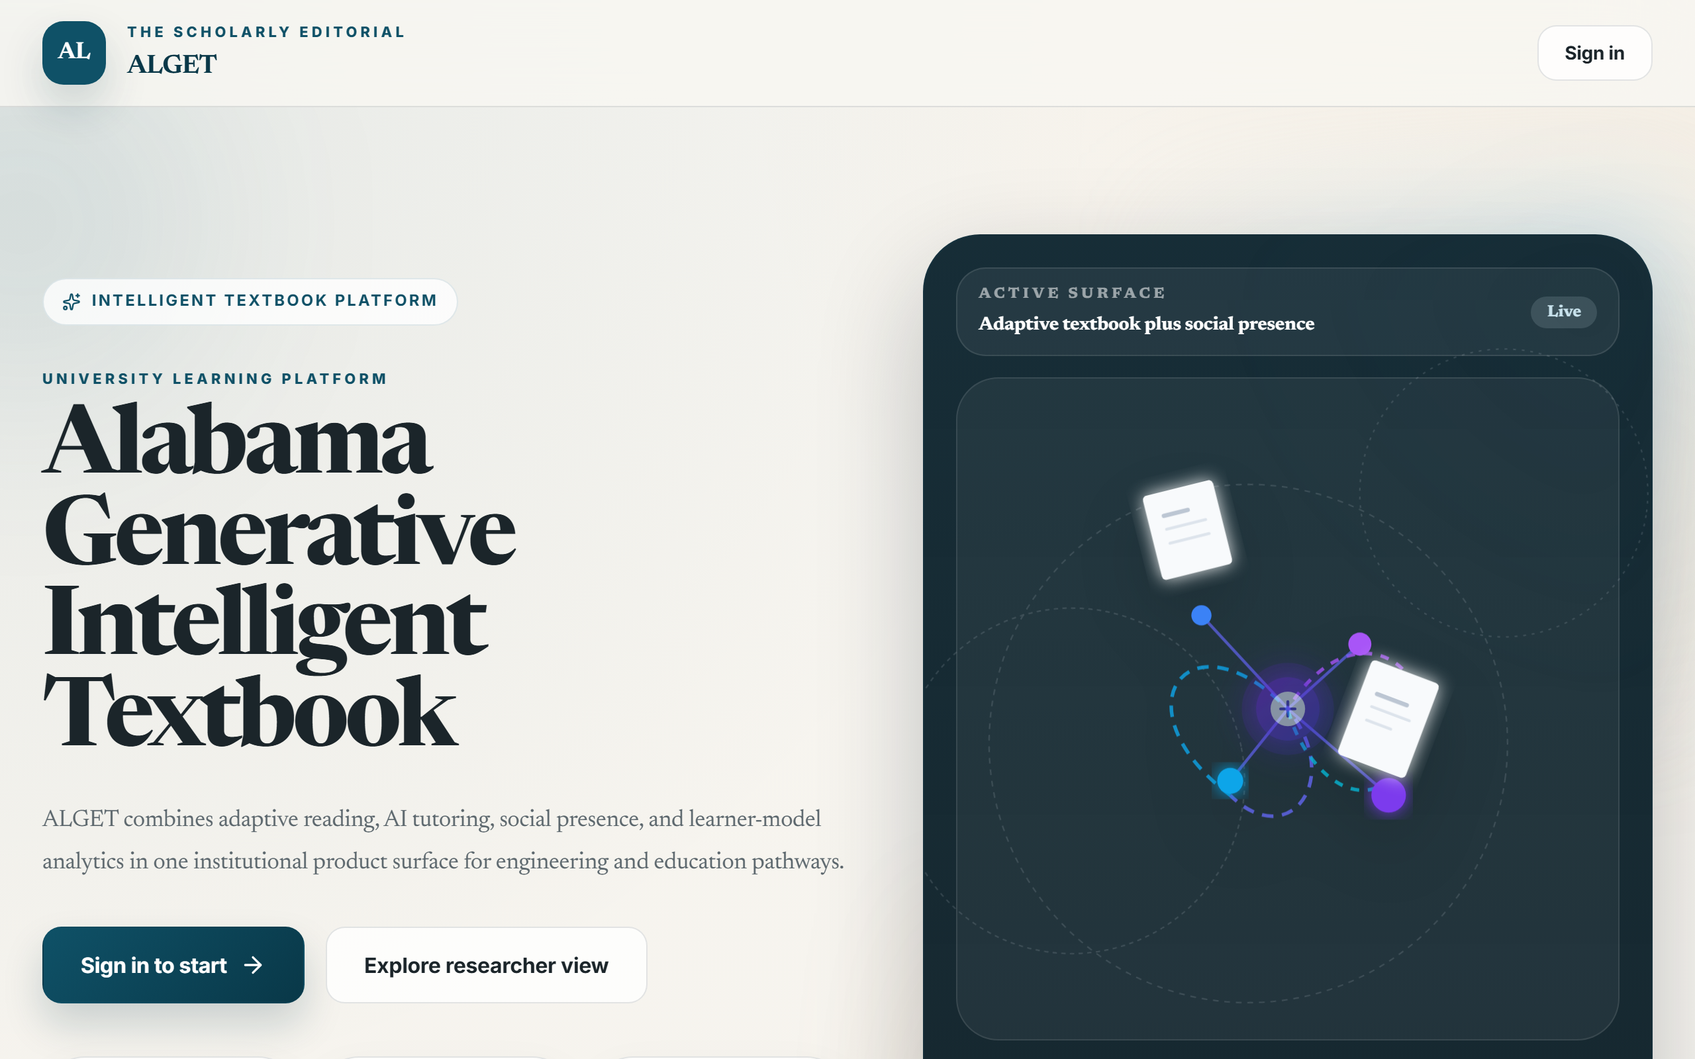
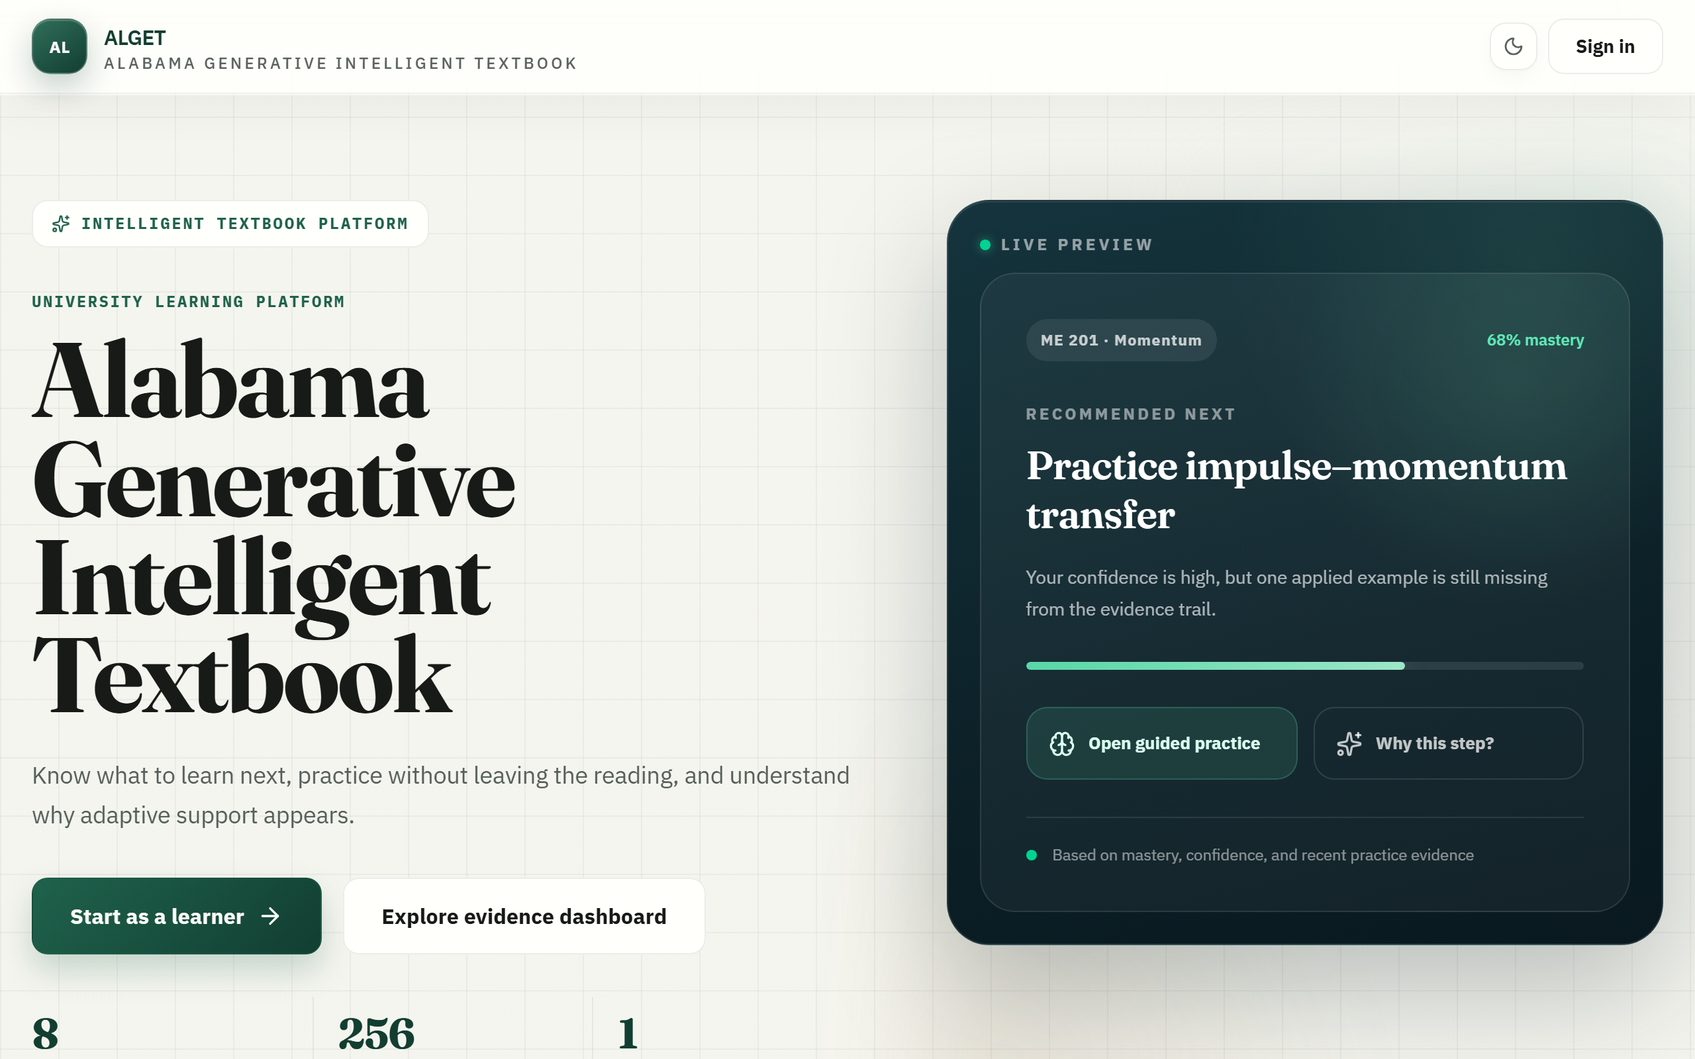
Refresh README architecture and screenshots

diff --git a/capture_screenshots.py b/capture_screenshots.py
@@ -56,6 +56,54 @@ async def shoot(page, name, **opts):
     print(f"  -> {path.name}")
 
 
+async def seed_agentic_demo(page):
+    """Seed approval-gated agentic examples for reproducible README captures."""
+    await page.evaluate(
+        """
+        () => {
+          const authKey = Object.keys(localStorage).find((key) => key.startsWith('sb-') && key.endsWith('-auth-token'))
+          let auth = {}
+          try { auth = JSON.parse(localStorage.getItem(authKey) || '{}') } catch { auth = {} }
+          const userId = auth?.user?.id || auth?.currentSession?.user?.id || auth?.session?.user?.id || 'demo-learner'
+          const now = new Date().toISOString()
+          const workflow = {
+            id: 'workflow-readme-plan', owner_id: userId, course_id: 'bio-inspired', workflow_type: 'learner_plan',
+            status: 'awaiting_approval', risk_level: 'low', goal: 'Master directional adhesion for Friday', created_at: now, updated_at: now,
+          }
+          const plan = {
+            id: 'plan-readme', workflow_id: workflow.id, user_id: userId, status: 'awaiting_approval', created_at: now, updated_at: now,
+            agent_workflows: workflow,
+            plan: {
+              sessions: [
+                { id: 's1', concept_id: 'directional_adhesion', mode: 'worked-example', scheduled_for: '2026-08-01', minutes: 30, why_now: 'Current mastery evidence is 38%, below the 80% learner goal.' },
+                { id: 's2', concept_id: 'preload_sensitivity', mode: 'retrieval-practice', scheduled_for: '2026-08-03', minutes: 25 },
+                { id: 's3', concept_id: 'dry_adhesion_constraints', mode: 'teach-back', scheduled_for: '2026-08-05', minutes: 30 },
+              ],
+              learner_control: { requires_approval: true, can_edit: true, can_pause: true, can_cancel: true, memory_scope: 'learner-owned' },
+            },
+          }
+          const interventionWorkflow = {
+            id: 'workflow-readme-intervention', owner_id: userId, course_id: 'statics', workflow_type: 'instructor_intervention',
+            status: 'awaiting_approval', risk_level: 'medium', goal: 'Re-teach force vectors', created_at: now, updated_at: now,
+          }
+          const intervention = {
+            id: 'intervention-readme', workflow_id: interventionWorkflow.id, course_id: 'statics', concept_id: 'force_vectors',
+            title: 'Re-teach force vectors', status: 'awaiting_approval', risk_level: 'medium', created_at: now, updated_at: now,
+            agent_workflows: interventionWorkflow,
+            proposal: {
+              summary: 'Prepare a short compare-and-correct activity; review the next evidence snapshot before further action.',
+              evidence: { learner_count: 8, average_mastery: 0.38, urgency: 'urgent', causal_claim: false },
+              delivery: { executed: false, requires_instructor_approval: true },
+            },
+          }
+          localStorage.setItem('alget_agentic_lms_v1', JSON.stringify({
+            goals: [], workflows: [workflow, interventionWorkflow], studyPlans: [plan], interventions: [intervention], events: [],
+          }))
+        }
+        """
+    )
+
+
 async def main():
     async with async_playwright() as p:
         browser = await p.chromium.launch(headless=True)
@@ -77,6 +125,7 @@ async def main():
         await page.evaluate(
             "localStorage.setItem('alget_onboarding_completed_v1','true')"
         )
+        await seed_agentic_demo(page)
 
         # 2. /learn (course chooser)
         print("[2] Course chooser /learn")
@@ -104,16 +153,20 @@ async def main():
 
         # 4. Book reader with IntelRail explicitly opened (Get Help button)
         print("[4] Reader with IntelRail open")
+        rail_opened = False
         try:
             help_btn = page.get_by_role("button", name="Get Help")
             await help_btn.click()
             await page.wait_for_timeout(800)
+            rail_opened = True
         except Exception:
-            print("  (rail may already be open)")
-        await shoot(page, "04_intel_rail_open")
+            print("  (rail unavailable at this viewport; preserving existing capture)")
+        if rail_opened:
+            await shoot(page, "04_intel_rail_open")
 
         # 5. Floating chat — find launcher (the bottom-right floating bubble) and open
         print("[5] Floating ChatWidget")
+        chat_opened = False
         # Close the rail first if open, for a cleaner shot.
         try:
             close_help = page.get_by_role("button", name="Close Help")
@@ -129,9 +182,11 @@ async def main():
             ).first
             await chat_btn.click(timeout=4000)
             await page.wait_for_timeout(1000)
+            chat_opened = True
         except Exception as e:
-            print(f"  (chat launcher not found: {e})")
-        await shoot(page, "05_chat_widget")
+            print(f"  (chat launcher unavailable; preserving existing capture: {e})")
+        if chat_opened:
+            await shoot(page, "05_chat_widget")
 
         # 6. Mastery / brain network — try /dashboard
         print("[6] Student dashboard /dashboard")

diff --git a/README.md b/README.md
@@ -5,19 +5,33 @@
 <p align="center">
   <img src="assets/hero.png" alt="ALGET — Alabama Generative Intelligent Textbook system architecture" width="100%">
 </p>
-<p align="center"><em>System architecture at a glance — the core textbook pathways and course supplements feed a multi-agent knowledge graph above. The crimson trace is one learner's active path.</em></p>
+<p align="center"><em>A generative textbook where source-grounded content, learner evidence, and accountable human decisions remain connected.</em></p>
+
+<p align="center">
+  <a href="https://github.com/Educatian/alget/actions/workflows/ci.yml"><img src="https://github.com/Educatian/alget/actions/workflows/ci.yml/badge.svg?branch=significant-upgrade" alt="CI status"></a>
+  <a href="https://alget.pages.dev"><img src="https://img.shields.io/badge/live-Cloudflare%20Pages-F38020?logo=cloudflare&logoColor=white" alt="Live on Cloudflare Pages"></a>
+  <img src="https://img.shields.io/badge/tests-241%20frontend%20%7C%20110%20backend-176B55" alt="Test counts">
+  <img src="https://img.shields.io/badge/runtime-human--governed-0F4C5C" alt="Human-governed agentic runtime">
+</p>
+
+<p align="center">
+  <a href="https://alget.pages.dev"><strong>Live app</strong></a> ·
+  <a href="#3-a-tour-of-the-surfaces"><strong>Product tour</strong></a> ·
+  <a href="#4-architecture"><strong>Architecture</strong></a> ·
+  <a href="docs/AGENTIC_LMS_RUNTIME.md"><strong>Agentic LMS contract</strong></a>
+</p>
 
 ALGET pairs canonical engineering and instructional-design content with a learning environment that responds to each learner — pace, confusions, strong concepts, weak ones — while staying grounded in source material through a debate loop of specialist agents and a peer-review validator. It is the reference implementation for the system paper currently being prepared (`paper_draft.md`).
 
-```
-┌─────────────────┐         ┌──────────────────────┐         ┌──────────────────┐
-│  Vercel Frontend│  HTTPS  │   Render Backend     │  HTTPS  │  Supabase (PG13) │
-│  React 19 · Vite│ ──────▶ │  FastAPI · Gunicorn  │ ──────▶ │  RLS · Realtime  │
-│  Tailwind v4    │         │  15 LLM agents       │         │  6 SQL schemas   │
-└─────────────────┘         └──────────────────────┘         └──────────────────┘
-        ▲                            ▲
-        │ @supabase/supabase-js      │ google-genai (Gemini 2.0 Flash)
-        └────────────────────────────┘
+```mermaid
+flowchart LR
+    U["Learner · Instructor · Admin"] --> P["Cloudflare Pages<br/>React 19 · static course snapshots"]
+    P --> W["ALGET Worker<br/>AI · grading · agentic planning"]
+    P --> S["Supabase<br/>Auth · Postgres · RLS · Realtime"]
+    W --> O["OpenRouter<br/>Gemini 2.5 Flash"]
+    W --> A["Adaptive-policy Worker<br/>evidence → bounded next action"]
+    W --> S
+    F["FastAPI parity runtime<br/>local development · research · contract tests"] -.-> W
 ```
 
 ---
@@ -44,7 +58,7 @@ ALGET pairs canonical engineering and instructional-design content with a learni
 
 ## 1. What ALGET is
 
-ALGET is **not a chatbot wrapped around a textbook**. It is a generative intelligent textbook (GIT) — meaning the content itself is composed at the moment of learning, constrained by a RAG-grounded source corpus, validated by a peer-review agent, and shaped by an evolving model of what each learner has mastered. Three commitments drive the design:
+ALGET is **not a chatbot wrapped around a textbook**. It combines a versioned canonical course corpus with source-grounded explanations, practice, scenarios, and plans generated at the point of need. Every adaptive or agentic proposal is shaped by inspectable learning evidence and bounded by explicit learner, instructor, or administrator authority. Three commitments drive the design:
 
 - **Learner variability is the design condition** (UDL). Multiple paths through the same idea are first-class.
 - **Active retrieval, not passive reading.** Embedded checks, generated practice, and spaced retention are the load-bearing surfaces.
@@ -82,49 +96,35 @@ frontend/content/<course>/<chapter>/<section>/
 
 ## 3. A tour of the surfaces
 
-Real screenshots captured from the running app via Playwright (1280×800 @ 2× DPR, see `capture_screenshots.py` + `capture_highlight.py`).
+Real screenshots captured from the current app via Playwright (1280×800 @ 2× DPR). Agentic examples are deterministic fixtures generated by `capture_screenshots.py`; they contain no learner records.
 
 <table>
 <tr>
 <td width="33%" align="center">
-  <a href="screenshots/02_course_chooser.png"><img src="screenshots/02_course_chooser.png" alt="Course chooser at /learn"></a>
-  <br><sub><b>Course chooser</b> — <code>/learn</code><br>five tracks behind access codes</sub>
+  <a href="screenshots/03_book_reader.png"><img src="screenshots/03_book_reader.png" alt="ALGET reader with course navigation, live presence, and an embedded decision activity"></a>
+  <br><sub><b>Reading workspace</b> — <code>/book/&lt;course&gt;/&lt;ch&gt;/&lt;sec&gt;</code><br>source-grounded narrative · inline decisions · live presence</sub>
 </td>
 <td width="33%" align="center">
-  <a href="screenshots/03_book_reader.png"><img src="screenshots/03_book_reader.png" alt="Reader at /book/bio-inspired/01/03"></a>
-  <br><sub><b>Reader</b> — <code>/book/&lt;course&gt;/&lt;ch&gt;/&lt;sec&gt;</code><br>narrative + inline checks + objectives</sub>
+  <a href="screenshots/06_student_dashboard.png"><img src="screenshots/06_student_dashboard.png" alt="Learner dashboard showing an evidence-based weekly plan awaiting learner approval"></a>
+  <br><sub><b>Learner-owned planner</b> — <code>/dashboard</code><br>mastery evidence → editable plan → explicit approval</sub>
 </td>
 <td width="33%" align="center">
-  <a href="screenshots/04_intel_rail_open.png"><img src="screenshots/04_intel_rail_open.png" alt="Reader with BigAL Support Rail open"></a>
-  <br><sub><b>Intel Rail</b><br>Explain · Reframe · Practice · Ask</sub>
+  <a href="screenshots/07_instructor_dashboard.png"><img src="screenshots/07_instructor_dashboard.png" alt="Instructor intervention queue showing evidence, proposal, and human approval controls"></a>
+  <br><sub><b>Instructor intervention queue</b> — <code>/instructor</code><br>evidence → bounded proposal → human decision</sub>
 </td>
 </tr>
 <tr>
 <td width="33%" align="center">
-  <a href="screenshots/05_chat_widget.png"><img src="screenshots/05_chat_widget.png" alt="BigAL floating tutor chat"></a>
-  <br><sub><b>BigAL chat</b><br>floating tutor; Socratic by design</sub>
+  <a href="screenshots/02_course_chooser.png"><img src="screenshots/02_course_chooser.png" alt="Course chooser at /learn"></a>
+  <br><sub><b>Course pathways</b> — <code>/learn</code><br>eight engineering and education pathways</sub>
 </td>
 <td width="33%" align="center">
   <a href="screenshots/09_highlight_popover.png"><img src="screenshots/09_highlight_popover.png" alt="Highlight popover with Highlight, Add Note, Ask AI"></a>
-  <br><sub><b>Selection popover</b><br>Highlight · Add Note · Ask AI</sub>
-</td>
-<td width="33%" align="center">
-  <a href="screenshots/06_student_dashboard.png"><img src="screenshots/06_student_dashboard.png" alt="Student dashboard"></a>
-  <br><sub><b>Student dashboard</b> — <code>/dashboard</code><br>weakest concepts · misconceptions · live map</sub>
-</td>
-</tr>
-<tr>
-<td width="33%" align="center">
-  <a href="screenshots/07_instructor_dashboard.png"><img src="screenshots/07_instructor_dashboard.png" alt="Instructor cohort heatmap"></a>
-  <br><sub><b>Instructor dashboard</b> — <code>/instructor</code><br>cohort heatmap · at-risk · hot-spots</sub>
+  <br><sub><b>Social annotation</b><br>Highlight · Add Note · Ask AI · evidence trace</sub>
 </td>
 <td width="33%" align="center">
   <a href="screenshots/08_analytics.png"><img src="screenshots/08_analytics.png" alt="Research console"></a>
-  <br><sub><b>Research console</b> — <code>/analytics</code><br>RCT-grade telemetry · 8 metrics</sub>
-</td>
-<td width="33%" align="center">
-  <a href="screenshots/01_landing.png"><img src="screenshots/01_landing.png" alt="Landing page"></a>
-  <br><sub><b>Landing</b> — <code>/</code><br>access entry; demo mode available</sub>
+  <br><sub><b>Research console</b> — <code>/analytics</code><br>RCT-grade telemetry · decision provenance · retention</sub>
 </td>
 </tr>
 </table>
@@ -135,7 +135,52 @@ Real screenshots captured from the running app via Playwright (1280×800 @ 2× D
 
 ## 4. Architecture
 
-### 4.1 API surface (FastAPI)
+### 4.1 Production topology
+
+```mermaid
+flowchart TB
+    subgraph Client["Cloudflare Pages · browser"]
+      UI["React learning workspace"]
+      C["256 static MDX-derived content snapshots"]
+      L["Local-first demo fallback"]
+    end
+
+    subgraph Edge["Cloudflare edge"]
+      W["alget-llm Worker"]
+      AP["adaptive-recommendation Worker"]
+      KV["Adaptation policy KV"]
+    end
+
+    subgraph Data["Supabase"]
+      Auth["Auth"]
+      DB["Postgres + RLS"]
+      RT["Realtime presence"]
+      RPC["Role-checked workflow RPCs"]
+    end
+
+    UI --> C
+    UI --> W
+    UI --> Auth
+    UI --> DB
+    UI --> RT
+    W --> AP
+    W --> KV
+    W --> OR["OpenRouter · Gemini 2.5 Flash"]
+    W --> RPC
+    RPC --> DB
+    L -. "offline/demo parity" .-> UI
+    PY["FastAPI + pytest"] -. "shared contracts for local development and research validation" .-> W
+```
+
+| Layer | Production responsibility | Failure boundary |
+|---|---|---|
+| **Cloudflare Pages** | SPA, fonts, diagrams, reference images, immutable course JSON | Core reading remains available without an AI response. |
+| **ALGET Worker** | Tutor calls, deterministic grading, agentic plan proposals, admin/PDF APIs | Returns bounded fallbacks; it does not own learner authorization state. |
+| **Adaptive Worker + KV** | Low-latency support selection and versioned course policy | Emergency pause suppresses interventions without blocking reading. |
+| **Supabase** | Identity, RLS-governed records, Realtime, workflow events and reviewed RPCs | Tables are read-only to clients where approval integrity matters. |
+| **FastAPI parity runtime** | Local development, research experiments, Python contract tests | Not required for the Cloudflare production reading path. |
+
+### 4.2 Dynamic API surface (Worker + FastAPI parity)
 
 
 
@@ -158,7 +203,7 @@ Real screenshots captured from the running app via Playwright (1280×800 @ 2× D
 | `/api/agentic/interventions/propose` | POST | Draft a bounded instructor intervention; never sends or grades |
 | `/api/chat`, `/api/log-events` | POST | BigAL chat + telemetry beacon |
 
-### 4.2 Frontend routes (React Router 7)
+### 4.3 Frontend routes (React Router 7)
 
 | Route | Component | Gate |
 |---|---|---|
@@ -167,12 +212,13 @@ Real screenshots captured from the running app via Playwright (1280×800 @ 2× D
 | `/diagnostic/:course` | DiagnosticAssessment | user |
 | `/book/:course` | BookLayout (TOC) | user |
 | `/book/:course/:chapter/:section` | BookLayout (reader + IntelRail + ChatWidget) | user |
-| `/dashboard` | StudentDashboard | user |
-| `/instructor` | InstructorDashboard (cohort heatmap) | `alget_instructor_access` |
+| `/dashboard` | StudentDashboard + learner-owned study planner | user |
+| `/instructor` | InstructorDashboard + intervention approval queue | `alget_instructor_access` |
+| `/admin` | AdminControlPlane (ingestion, agents, policy, audit) | admin / course admin |
 | `/lab` | GenerativeLab (CurriculumAgent module gen) | researcher |
 | `/analytics` | AnalyticsDashboard (research console) | researcher |
 
-### 4.3 Data model — `backend/supabase_*.sql`
+### 4.4 Data and approval model
 
 Six SQL schemas, all RLS-gated:
 
@@ -186,6 +232,22 @@ Six SQL schemas, all RLS-gated:
 The timestamped migration `supabase/migrations/20260730100000_agentic_lms_runtime.sql` adds durable workflows, workflow events, learner goals/plans, and instructor intervention review queues. Proposals are separated from effects: learner plans and instructor interventions remain `awaiting_approval` until the accountable person acts. Messaging, publishing, enrollment changes, and final-grade execution are not exposed as autonomous actions. See `docs/AGENTIC_LMS_RUNTIME.md`.
 
 The four-way join `experiment_assignments × interaction_events × intervention_traces/recommendation_decisions × evaluation_runs/evaluation_responses` is what makes RCT, off-policy evaluation, item diagnostics, and forgetting-rate estimation tractable directly from production data.
+
+### 4.5 Agentic workflow lifecycle
+
+```mermaid
+stateDiagram-v2
+    [*] --> Draft
+    Draft --> AwaitingApproval: evidence-linked proposal
+    AwaitingApproval --> Active: accountable person approves
+    AwaitingApproval --> Cancelled: learner cancels / instructor rejects
+    Active --> Paused: learner pauses
+    Paused --> Active: learner resumes
+    Active --> Completed: bounded plan finishes
+    Active --> Cancelled: accountable person stops it
+```
+
+Every transition writes an `agent_workflow_events` record. Approval changes workflow state only: autonomous messaging, publishing, enrollment changes, and final-grade execution remain unavailable by policy.
 
 ---
 
@@ -472,6 +534,7 @@ alget/
 | `paper_draft.md` | researchers | system paper in progress |
 | `backend/SYSTEM_DESIGN_HISTORY.md` | maintainers | 5-stage evolution narrative |
 | `backend/agents/MULTI_AGENT_GENERATIVE_DESIGN.md` | maintainers | per-agent contract + debate-loop spec |
+| `docs/AGENTIC_LMS_RUNTIME.md` | maintainers / reviewers | workflow states, permission policy, human approval boundaries, deployment checks |
 | `backend/engineering_text_fidelity_rubric.md` | content authors | 6-dim scoring rubric (concept clarity, quantitative rigor, eng-translation, constraint awareness, learner support, voice) |
 | `backend/content_audit_report.md` + `content_priority_plan.md` | content authors | gap audit (42 sections, severity 0) + Tier 1–4 plan |
 | `REMOTION_ANIMATION_MAP.md` + `NOTEBOOKLM_REMOTION_INTEGRATION.md` | maintainers | per-section animation priority + audio/video pipeline |
@@ -481,21 +544,21 @@ alget/
 
 ## 12. Deployment
 
-### 12.1 Backend — Render
+### 12.1 Frontend and static content — Cloudflare Pages
 
-`render.yaml` → `gunicorn server:app -w 1 -k uvicorn.workers.UvicornWorker --timeout 120`. Single worker is intentional: free tier memory ceiling + in-memory RAG index consistency. Required env vars: `GEMINI_API_KEY`, optional access codes (see `DEPLOYMENT_ENV.md`).
+The Vite production build publishes the React SPA, security headers, SPA fallback, course snapshots, reference images, and fonts to `https://alget.pages.dev`. Reading does not wait for a model or a Python server.
 
-### 12.2 Frontend — Vercel
+### 12.2 Dynamic compute — Cloudflare Workers
 
-`vercel.json` provides SPA fallback + (legacy) `/api/*` rewrite. Production build calls Render directly via `apiConfig.js` → `https://alget.onrender.com/api` to bypass Vercel's 15-s timeout (commit `fd82b97`).
+`cloudflare/llm-proxy` serves tutor, grading, research-validation, admin/PDF, and governed agentic-planning endpoints at `https://alget-llm.jewoong-moon.workers.dev`. The adaptive recommendation policy runs in a second Worker through a service binding; policy versions and emergency controls use KV.
 
-### 12.3 Cold-start mitigation
+### 12.3 Identity and durable state — Supabase
 
-`App.jsx:36-37` pings `/book/inst-design/toc` on mount to wake the Render free-tier worker before the user clicks anything. Cold-start latency: ~10–30 s when the in-memory RAG index re-builds.
+Supabase provides Auth, PostgreSQL, Realtime, and reviewed workflow RPCs. RLS is enabled on every application table. Agentic workflow tables expose read-only client grants; state changes occur through role-checked RPCs that append audit events.
 
-### 12.4 Database — Supabase
+### 12.4 Release order
 
-PostgreSQL 13 + Realtime. RLS active on every table. `learner_concept_state` is mirrored from BKT on every grade call (commit `c3ec51c`).
+Apply reviewed forward migrations first, then deploy Workers before Pages. The blocking gate is `node scripts/release_readiness.mjs`; the operational sequence and rollback evidence are defined in [`RELEASE_RUNBOOK.md`](RELEASE_RUNBOOK.md).
 
 ---
 
@@ -503,11 +566,13 @@ PostgreSQL 13 + Realtime. RLS active on every table. `learner_concept_state` is 
 
 **Frontend** — React 19.2 · React Router 7.11 · Vite 7.2 · Tailwind v4 (`@tailwindcss/vite`) · `react-markdown 10.1` + `remark-math` + `rehype-katex` + KaTeX 0.16 · `@supabase/supabase-js 2.89` · Radix UI (popover, tooltip) · `lucide-react` · `@remotion/player` 4.0 · Vitest 3.2 + Testing Library + jsdom.
 
-**Backend** — Python 3.11 · FastAPI · Pydantic v2 · Gunicorn + Uvicorn workers · `google-genai` (Gemini 2.0 Flash) · pytest 9.
+**Edge runtime** — Cloudflare Workers · Wrangler 4 · service bindings · KV · OpenRouter API · `unpdf`.
+
+**Python parity/runtime research** — Python 3.11 · FastAPI · Pydantic v2 · Uvicorn · 15 specialist-agent modules · pytest 9.
 
 **Data** — Supabase (PostgreSQL 13, Realtime, RLS).
 
-**LLM** — Gemini 2.0 Flash, `response_mime_type="application/json"` for structured output, per-agent temperatures (`ValidationAgent=0.3` strictest, `BiologyAgent=0.7`, `NarrativeAgent=0.8` most generative).
+**LLM** — Gemini 2.5 Flash through OpenRouter in production. Structured outputs, bounded prompts, deterministic policy checks, and human approval gates constrain model-generated proposals.
 
 ---
 
